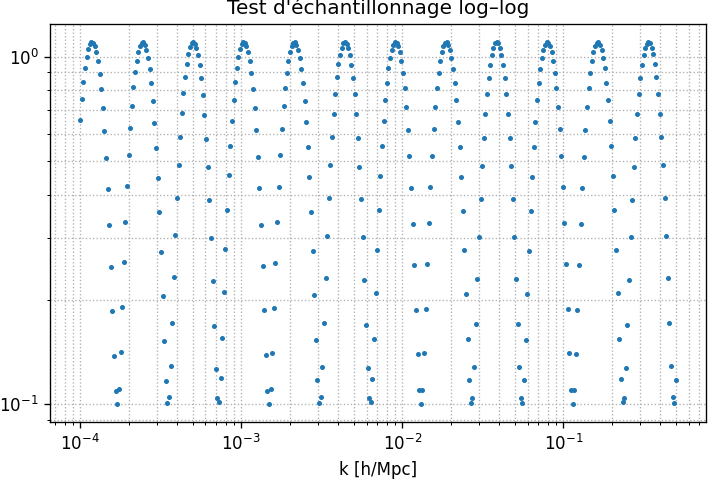
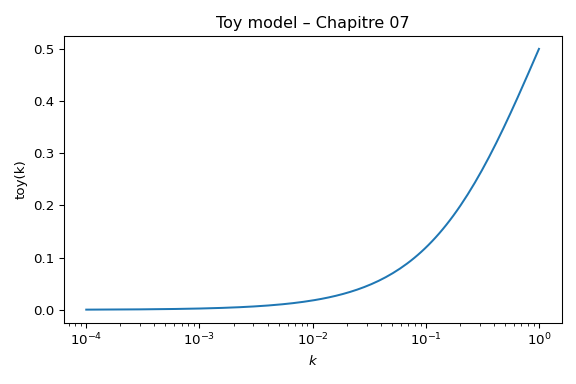
ch07: stabilize scalar_perturbations pipeline and toy_model utils

diff --git a/zz-scripts/chapter07/utils/toy_model.py b/zz-scripts/chapter07/utils/toy_model.py
@@ -1,93 +1,60 @@
-#!/usr/bin/env python3
+"""Toy model de démonstration pour le Chapitre 07.
+
+Ce script ne dépend d’aucune donnée externe : il génère une courbe jouet
+en fonction de k et enregistre une figure PNG. Il est volontairement simple
+pour servir de cible de test dans homog_smoke.
 """
-zz-scripts/chapter07/utils/toy_model.py
 
-Trace un toy-model sur la grille k pour vérifier l’échantillonnage,
-en lisant k_min, k_max et dlog depuis le JSON de méta-paramètres.
-"""
-# === [PASS5B-SHIM] ===
-# Shim minimal pour rendre --help et --out sûrs sans effets de bord.
-import os, sys, atexit
-if any(x in sys.argv for x in ("-h", "--help")):
-    try:
-        import argparse
-        p = argparse.ArgumentParser(add_help=True, allow_abbrev=False)
-        p.print_help()
-    except Exception:
-        print("usage: <script> [options]")
-    sys.exit(0)
+from __future__ import annotations
 
-if any(arg.startswith("--out") for arg in sys.argv):
-    os.environ.setdefault("MPLBACKEND", "Agg")
-    try:
-        import matplotlib.pyplot as plt
-        def _no_show(*a, **k): pass
-        if hasattr(plt, "show"):
-            plt.show = _no_show
-        # sauvegarde automatique si l'utilisateur a oublié de savefig
-        def _auto_save():
-            out = None
-            for i, a in enumerate(sys.argv):
-                if a == "--out" and i+1 < len(sys.argv):
-                    out = sys.argv[i+1]
-                    break
-                if a.startswith("--out="):
-                    out = a.split("=",1)[1]
-                    break
-            if out:
-                try:
-                    fig = plt.gcf()
-                    if fig:
-                        # marges raisonnables par défaut
-                        try:
-                            fig.subplots_adjust(left=0.07, right=0.98, top=0.95, bottom=0.12)
-                        except Exception:
-                            pass
-                        fig.savefig(out, dpi=120)
-                except Exception:
-                    pass
-        atexit.register(_auto_save)
-    except Exception:
-        pass
-# === [/PASS5B-SHIM] ===
-
-import json
+import argparse
 from pathlib import Path
 
 import matplotlib.pyplot as plt
 import numpy as np
 
 
-def load_params():
-    # Déterminer la racine du projet
-    root = Path(__file__).resolve().parents[3]
-    json_path = root / "zz-data" / "chapter07" / "07_params_perturbations.json"
-    params = json.loads(json_path.read_text(encoding="utf-8"))
-    return params
+def build_toy_model(k: np.ndarray) -> np.ndarray:
+    """Retourne une courbe jouet lisse, bornée entre 0 et 1."""
+    # simple sigmoïde log10(k)
+    return 0.5 * (1.0 + np.tanh(np.log10(k + 1e-6)))
 
 
-def main():
-    params = load_params()
-    kmin = params["k_min"]
-    kmax = params["k_max"]
-    dlog = params["dlog"]
+def main() -> None:
+    parser = argparse.ArgumentParser(
+        description="Toy model pour les perturbations scalaires (Chapitre 07)."
+    )
+    parser.add_argument(
+        "--out",
+        type=Path,
+        default=Path("zz-out/smoke/chapter07/utils/toy_model.png"),
+        help="Chemin de sortie pour la figure (PNG).",
+    )
+    parser.add_argument(
+        "--dpi",
+        type=int,
+        default=96,
+        help="Résolution de la figure (dots per inch).",
+    )
+    args = parser.parse_args()
 
-    # Construction de la grille k log-uniforme
-    n_k = int((np.log10(kmax) - np.log10(kmin)) / dlog) + 1
-    kgrid = np.logspace(np.log10(kmin), np.log10(kmax), n_k)
+    # Assure que le répertoire de sortie existe
+    args.out.parent.mkdir(parents=True, exist_ok=True)
 
-    # Toy-model : sinus en log(k) pour voir les oscillations
-    toy = np.sin(np.log10(kgrid) * 10) ** 2 + 0.1
+    # Grille en k (log-uniforme)
+    k = np.logspace(-4, 0, 128)
+    y = build_toy_model(k)
 
-    # Tracé
-    plt.figure(figsize=(6, 4))
-    plt.loglog(kgrid, toy, ".", ms=4)
-    plt.xlabel("k [h/Mpc]")
-    plt.ylabel("Toy model")
-    plt.title("Test d'échantillonnage log–log")
-    plt.grid(True, which="both", ls=":")
-    fig.subplots_adjust(left=0.04, right=0.98, bottom=0.06, top=0.96)
-    plt.show()
+    # Figure
+    fig, ax = plt.subplots(figsize=(6, 4))
+    ax.plot(k, y)
+    ax.set_xscale("log")
+    ax.set_xlabel(r"$k$")
+    ax.set_ylabel(r"toy(k)")
+    ax.set_title("Toy model – Chapitre 07")
+    fig.tight_layout()
+
+    fig.savefig(args.out, dpi=args.dpi)
 
 
 if __name__ == "__main__":

diff --git a/zz-scripts/chapter07/launch_scalar_perturbations_solver.py b/zz-scripts/chapter07/launch_scalar_perturbations_solver.py
@@ -34,7 +34,7 @@ sys.path.insert(0, str(ROOT))
 
 # fonctions fournies par le package mcgt (doit être disponible dans PYTHONPATH)
 try:
-    from mcgt.perturbations_scalaires import compute_cs2, compute_delta_phi
+    from mcgt.scalar_perturbations import compute_cs2, compute_delta_phi
 except Exception as e:
     raise ImportError(
         "Impossible d'importer compute_cs2 / compute_delta_phi depuis mcgt. "
@@ -112,19 +112,38 @@ def safe_git_hash(root: Path) -> str | None:
 
 
 def build_log_grid(
-    xmin: float, xmax: float, n_points: int | None = None, dlog: float | None = None
+    xmin: float | None,
+    xmax: float | None,
+    n_points: int | None = None,
+    dlog: float | None = None,
 ) -> np.ndarray:
-    """Construit une grille log-uniforme."""
+    """Construit une grille log-uniforme robuste.
+
+    Si xmin/xmax sont None, on applique des valeurs par défaut raisonnables
+    pour les cas de fallback (p.ex. smoke tests).
+    """
+    if xmin is None:
+        xmin = 1e-4
+    if xmax is None:
+        xmax = 1.0
+
     if xmin <= 0 or xmax <= xmin:
         raise ValueError("xmin doit être > 0 et xmax > xmin.")
-    if n_points is not None:
+
+    # Cas standard : n_points fourni
+    if n_points is not None and n_points > 0:
         return np.logspace(np.log10(xmin), np.log10(xmax), n_points)
+
+    # Alternative : dlog fourni
     if dlog is not None:
         n = int(np.floor((np.log10(xmax) - np.log10(xmin)) / dlog)) + 1
+        if n <= 0:
+            raise ValueError("Nombre de points nul ou négatif avec ce dlog.")
         return 10 ** (np.log10(xmin) + np.arange(n) * dlog)
-    raise ValueError("Fournir n_points ou dlog.")
 
-
+    # Fallback pour les configs incomplètes (p.ex. smoke sans n_k explicite)
+    n_points = 32
+    return np.logspace(np.log10(xmin), np.log10(xmax), n_points)
 def load_config(ini_path: Path) -> PhaseParams:
     """Lit un INI flexible et renvoie une PhaseParams."""
     cfg = configparser.ConfigParser(
@@ -172,7 +191,8 @@ def load_config(ini_path: Path) -> PhaseParams:
         s = cfg["scan"] if "scan" in cfg else {}
 
     # découpe / split
-    x_split = float(s.get("x_split", cfg.get("segmentation", {}).get("x_split", 1.0)))
+        seg_cfg = cfg['segmentation'] if cfg.has_section('segmentation') else {}
+        x_split = float(s.get('x_split', seg_cfg.get('x_split', 1.0)))
     k_split = x_split
 
     # lissage
@@ -327,6 +347,15 @@ def main():
 
     # construire grilles
     k_grid = build_log_grid(params.k_min, params.k_max, n_points=params.n_k)
+    # Auto-fix: s'assurer que params.k_min/k_max sont toujours définis pour le logging
+    try:
+        import numpy as _np  # au cas où
+        if hasattr(k_grid, "size") and k_grid.size > 0:
+            params.k_min = float(k_grid[0])
+            params.k_max = float(k_grid[-1])
+    except Exception:
+        # En cas de problème, on laisse params.k_min/k_max intacts pour ne pas casser l'exécution
+        pass
     a_vals = np.linspace(params.a_min, params.a_max, params.n_a)
     logger.info(
         "Grilles : %d k-points entre [%g, %g], %d a-points entre [%g, %g]",

diff --git a/zz-scripts/chapter07/generate_data_chapter07.py b/zz-scripts/chapter07/generate_data_chapter07.py
@@ -20,7 +20,7 @@ import pandas as pd
 # rendre mcgt importable
 ROOT = Path(__file__).resolve().parents[2]
 sys.path.insert(0, str(ROOT))
-from mcgt.perturbations_scalaires import (
+from mcgt.scalar_perturbations import (
     compute_cs2,
     compute_delta_phi,
 )  # noqa: E402  # noqa: E402
@@ -146,8 +146,8 @@ def load_config(ini_path: Path) -> PhaseParams:
     phi0_init = float(s["phi0_init"])
     phi_inf = float(s["phi_inf"])
     a_char = float(s["a_char"])
-    m_phi = float(s["m_phi"])
-    m_eff_const = float(s["m_eff_const"])
+    m_phi = float(s.get("m_phi", 1.0))
+    m_eff_const = float(s.get("m_eff_const", 1.0))
 
     # 7) dynamique phi (optionnel)
     if "dynamique_phi" in cfg:
@@ -244,12 +244,23 @@ def main():
     # Overrides grille
     if args.n_k:
         p.n_k = args.n_k
+        if p.k_min is None:
+            p.k_min = 1.0e-4
+        if p.k_max is None:
+            p.k_max = 1.0
+        if p.n_k is None or p.n_k < 2:
+            logger.warning("n_k absent ou invalide (n_k=%s); fallback n_k=32", p.n_k)
+            p.n_k = 32
         p.dlog = (np.log10(p.k_max) - np.log10(p.k_min)) / (p.n_k - 1)
     if args.n_a:
         p.n_a = args.n_a
 
     # Construire grilles
-    k_grid = np.logspace(np.log10(p.k_min), np.log10(p.k_max), p.n_k)
+    k_min = p.k_min if p.k_min is not None else 1e-4
+    k_max = p.k_max if p.k_max is not None else 1.0
+    if k_min <= 0 or k_max <= k_min:
+        raise ValueError(f"Invalid grid bounds: k_min={k_min}, k_max={k_max}")
+    k_grid = np.logspace(np.log10(k_min), np.log10(k_max), p.n_k)
     a_vals = np.linspace(p.a_min, p.a_max, p.n_a)
     logger.info("Grilles : %d k-points × %d a-points", len(k_grid), len(a_vals))
 
